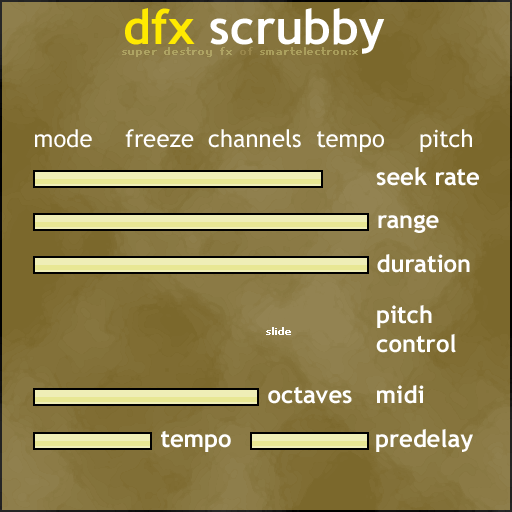
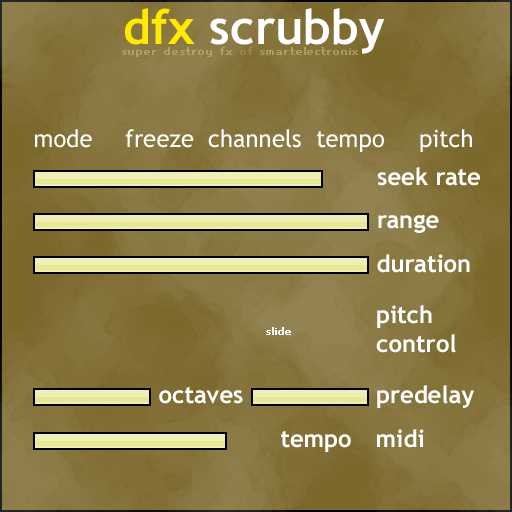
* add "sync to host tempo" button to Scrubby * re-title the "sync to host tempo" button in Buffer Override for consistency * gray out Tempo sliders when using host tempo (Buffer Override, Scrubby, EQ Sync)

Changed region(s): [[0.2812, 0.75, 0.9375, 0.8125], [0.2812, 0.8438, 0.9375, 0.9062], [0.7188, 0.3125, 0.9375, 0.375]]

diff --git a/scrubby/gui/scrubbyeditor.cpp b/scrubby/gui/scrubbyeditor.cpp
@@ -34,7 +34,7 @@ constexpr auto kDisplayTextSize = dfx::kFontSize_SnootPixel10;
 constexpr DGColor kBrownTextColor(187, 173, 131);
 constexpr float kUnusedControlAlpha = 0.234f;
 
-constexpr long kOctavesSliderWidth = 226 - 2;
+constexpr long kOctavesSliderWidth = 118 - 2;
 static long const kOctaveMaxSliderWidth = static_cast<long>((static_cast<float>(kOctave_MaxValue) / static_cast<float>((std::abs(kOctave_MinValue) + kOctave_MaxValue))) * static_cast<float>(kOctavesSliderWidth));
 static long const kOctaveMinSliderWidth = kOctavesSliderWidth - kOctaveMaxSliderWidth;
 constexpr long kOctaveMinSliderX = 33 + 1;
@@ -71,13 +71,13 @@ enum
 
 	kTempoSliderX = 33 + 1,
 	kTempoSliderY = 427,
-	kTempoSliderWidth = 119 - 2,
+	kTempoSliderWidth = 194 - 2,
 
-	kPredelaySliderX = 250 + 1,
-	kPredelaySliderY = 427,
-	kPredelaySliderWidth = 119 - 2,
+	kPredelaySliderX = 251 + 1,
+	kPredelaySliderY = 383,
+	kPredelaySliderWidth = 118 - 2,
 
-	kDisplayWidth =90,
+	kDisplayWidth = 90,
 	kDisplayWidth_big = 117,  // for seek rate
 	kDisplayHeight = 10,
 	kDisplayInset = 2,
@@ -95,6 +95,9 @@ enum
 
 	kLittleTempoSyncButtonX = 327,
 	kLittleTempoSyncButtonY = 303 + kMainSlidersOffsetY,
+
+	kTempoAutoButtonX = 231,
+	kTempoAutoButtonY = 432,
 
 	kKeyboardX = 33,
 	kKeyboardY = 164 + kNotesStuffOffsetY,
@@ -114,7 +117,7 @@ enum
 	kNoneNotesButtonY = kMajorChordButtonY + 61,
 
 	kMidiLearnButtonX = 433,
-	kMidiLearnButtonY = 248 + kNotesStuffOffsetY,
+	kMidiLearnButtonY = 292 + kNotesStuffOffsetY,
 	kMidiResetButtonX = kMidiLearnButtonX,
 	kMidiResetButtonY = kMidiLearnButtonY + 19,
 
@@ -158,6 +161,7 @@ enum
 	kHelp_Notes,
 	kHelp_Octaves,
 	kHelp_Tempo,
+	kHelp_TempoAuto,
 	kHelp_PreDelay,
 	kHelp_MidiLearn,
 	kHelp_MidiReset,
@@ -221,6 +225,10 @@ of octaves, or move these to their outer points if you want no limits.)DELIM",
 	R"DELIM(tempo:  sets the tempo that Scrubby uses when tempo sync is on
 If your host app doesn't send tempo info to plugins, you'll need to adjust this 
 parameter in order to specify a tempo for Scrubby to use.)DELIM", 
+	// tempo auto
+	R"DELIM(sync to host tempo:  follow the host's current tempo
+If your host app sends tempo info to plugins, you can enable this parameter 
+to lock the tempo that Scrubby uses to that of the host.)DELIM", 
 	// predelay
 	R"DELIM(predelay:  compensate for Scrubby's (possible) output delay
 Scrubby zips around in a delay buffer and therefore can create some latency.  
@@ -419,6 +427,7 @@ long ScrubbyEditor::OpenEditor()
 	auto const splitChannelsButtonImage = VSTGUI::makeOwned<DGImage>("stereo-button.png");
 	auto const pitchConstraintButtonImage = VSTGUI::makeOwned<DGImage>("pitch-constraint-button.png");
 	auto const tempoSyncButtonImage_little = VSTGUI::makeOwned<DGImage>("tempo-sync-button-little.png");
+	auto const hostTempoButtonImage = VSTGUI::makeOwned<DGImage>("host-tempo-button.png");
 
 	// pitch constraint control buttons
 //	auto const keyboardOffImage = VSTGUI::makeOwned<DGImage>("keyboard-off.png");
@@ -609,6 +618,10 @@ long ScrubbyEditor::OpenEditor()
 	pos.set(kLittleTempoSyncButtonX, kLittleTempoSyncButtonY, tempoSyncButtonImage_little->getWidth(), tempoSyncButtonImage_little->getHeight() / 2);
 	emplaceControl<DGButton>(this, kTempoSync, pos, tempoSyncButtonImage_little, DGButton::Mode::Increment, false);
 
+	// enable sync to host tempo
+	pos.set(kTempoAutoButtonX, kTempoAutoButtonY, hostTempoButtonImage->getWidth(), hostTempoButtonImage->getHeight() / 2);
+	emplaceControl<DGButton>(this, kTempoAuto, pos, hostTempoButtonImage, DGButton::Mode::Increment, false);
+
 
 	// ...............PITCH CONSTRAINT....................
 
@@ -706,8 +719,9 @@ long ScrubbyEditor::OpenEditor()
 
 
 
-	// this will initialize the pitch constraint controls' initial translucency settings 
+	// this will initialize the translucency state of dependent controls 
 	HandlePitchConstraintChange();
+	HandleTempoAutoChange();
 	// and this will do the same for the channels mode control
 	numAudioChannelsChanged(getNumAudioChannels());
 
@@ -818,34 +832,56 @@ void ScrubbyEditor::HandlePitchConstraintChange()
 }
 
 //-----------------------------------------------------------------------------
+void ScrubbyEditor::HandleTempoAutoChange()
+{
+	float const alpha = getparameter_b(kTempoAuto) ? kUnusedControlAlpha : 1.0f;
+	for (auto& control : mControlsList)
+	{
+		if (control->getParameterID() == kTempo)
+		{
+			control->setDrawAlpha(alpha);
+		}
+	}
+}
+
+//-----------------------------------------------------------------------------
 void ScrubbyEditor::parameterChanged(long inParameterID)
 {
-	if (inParameterID == kTempoSync)
+	switch (inParameterID)
 	{
-		auto const useSyncParam = getparameter_b(inParameterID);
-		auto const updateControlParameterID = [useSyncParam](IDGControl* inControl)
+		case kTempoSync:
 		{
-			assert(inControl);
-			auto const oldParamID = inControl->getParameterID();
-			auto newParamID = dfx::kParameterID_Invalid;
-			if ((oldParamID == kSeekRateRandMin_Hz) || (oldParamID == kSeekRateRandMin_Sync))
+			auto const useSyncParam = getparameter_b(inParameterID);
+			auto const updateControlParameterID = [useSyncParam](IDGControl* inControl)
 			{
-				newParamID = useSyncParam ? kSeekRateRandMin_Sync : kSeekRateRandMin_Hz;
-			}
-			else
-			{
-				newParamID = useSyncParam ? kSeekRate_Sync : kSeekRate_Hz;
-			}
-			inControl->setParameterID(newParamID);
-		};
-		updateControlParameterID(mSeekRateSlider);
-		updateControlParameterID(mSeekRateDisplay);
-//		updateControlParameterID(mSeekRateRandMinSlider);
-		updateControlParameterID(mSeekRateRandMinDisplay);
-	}
-	else if ((inParameterID == kSpeedMode) || (inParameterID == kPitchConstraint))
-	{
-		HandlePitchConstraintChange();
+				assert(inControl);
+				auto const oldParamID = inControl->getParameterID();
+				auto newParamID = dfx::kParameterID_Invalid;
+				if ((oldParamID == kSeekRateRandMin_Hz) || (oldParamID == kSeekRateRandMin_Sync))
+				{
+					newParamID = useSyncParam ? kSeekRateRandMin_Sync : kSeekRateRandMin_Hz;
+				}
+				else
+				{
+					newParamID = useSyncParam ? kSeekRate_Sync : kSeekRate_Hz;
+				}
+				inControl->setParameterID(newParamID);
+			};
+			updateControlParameterID(mSeekRateSlider);
+			updateControlParameterID(mSeekRateDisplay);
+//			updateControlParameterID(mSeekRateRandMinSlider);
+			updateControlParameterID(mSeekRateRandMinDisplay);
+			break;
+		}
+		case kSpeedMode:
+		case kPitchConstraint:
+			HandlePitchConstraintChange();
+			break;
+		case kTempoAuto:
+			HandleTempoAutoChange();
+			break;
+		default:
+			break;
 	}
 }
 
@@ -918,6 +954,8 @@ void ScrubbyEditor::mouseovercontrolchanged(IDGControl* currentControlUnderMouse
 					return kHelp_Octaves;
 				case kTempo:
 					return kHelp_Tempo;
+				case kTempoAuto:
+					return kHelp_TempoAuto;
 				case kPredelay:
 					return kHelp_PreDelay;
 				default:

diff --git a/bufferoverride/gui/bufferoverrideeditor.cpp b/bufferoverride/gui/bufferoverrideeditor.cpp
@@ -33,6 +33,8 @@ constexpr float kHelpDisplayFontSize = 9.6f;
 
 constexpr DGColor kHelpDisplayTextColor(201, 201, 201);
 
+constexpr float kUnusedControlAlpha = 0.39f;
+
 
 //-----------------------------------------------------------------------------
 enum
@@ -446,6 +448,9 @@ long BufferOverrideEditor::OpenEditor()
 	mHelpDisplay = emplaceControl<DGStaticTextDisplay>(pos, nullptr, dfx::TextAlignment::Center, kHelpDisplayFontSize, kHelpDisplayTextColor, kHelpDisplayFont);
 
 
+	HandleTempoAutoChange();
+
+
 	return dfx::kStatus_NoError;
 }
 
@@ -474,6 +479,9 @@ void BufferOverrideEditor::parameterChanged(long inParameterID)
 			newParameterID = useSyncParam ? kBufferLFORate_Sync : kBufferLFORate_Hz;
 			slider = mBufferLFORateSlider;
 			textDisplay = mBufferLFORateDisplay;
+			break;
+		case kTempoAuto:
+			HandleTempoAutoChange();
 			break;
 		default:
 			return;
@@ -567,10 +575,10 @@ void BufferOverrideEditor::mouseovercontrolchanged(IDGControl* currentControlUnd
 			helpstring = "nudge: MIDI notes adjust the buffer divisor.   trigger: notes also reset the divisor to 1 when they are released";
 			break;
 		case kTempo:
-			helpstring = "you can adjust the tempo that Buffer Override uses, or set this to \"auto\" to get the tempo from your sequencer";
+			helpstring = "you can adjust the tempo that Buffer Override uses, or use the \"host tempo\" button to get tempo from your host";
 			break;
 		case kTempoAuto:
-			helpstring = "enable this to get the tempo from your sequencer";
+			helpstring = "enable this to get the tempo from your host application";
 			break;
 
 		default:
@@ -589,4 +597,17 @@ void BufferOverrideEditor::mouseovercontrolchanged(IDGControl* currentControlUnd
 	}
 
 	mHelpDisplay->setText(helpstring ? helpstring : "");
+}
+
+//-----------------------------------------------------------------------------
+void BufferOverrideEditor::HandleTempoAutoChange()
+{
+	float const alpha = getparameter_b(kTempoAuto) ? kUnusedControlAlpha : 1.0f;
+	for (auto& control : mControlsList)
+	{
+		if (control->getParameterID() == kTempo)
+		{
+			control->setDrawAlpha(alpha);
+		}
+	}
 }

diff --git a/eqsync/gui/eqsynceditor.cpp b/eqsync/gui/eqsynceditor.cpp
@@ -66,6 +66,7 @@ enum
 
 static char const* const kValueTextFont = "Lucida Grande";
 constexpr float kValueTextSize = 13.0f;
+constexpr float kUnusedControlAlpha = 0.45f;
 
 
 
@@ -236,5 +237,30 @@ long EQSyncEditor::OpenEditor()
 	}, this, true);
 
 
+	HandleTempoAutoChange();
+
+
 	return dfx::kStatus_NoError;
+}
+
+//-----------------------------------------------------------------------------
+void EQSyncEditor::parameterChanged(long inParameterID)
+{
+	if (inParameterID == kTempoAuto)
+	{
+		HandleTempoAutoChange();
+	}
+}
+
+//-----------------------------------------------------------------------------
+void EQSyncEditor::HandleTempoAutoChange()
+{
+	float const alpha = getparameter_b(kTempoAuto) ? kUnusedControlAlpha : 1.0f;
+	for (auto& control : mControlsList)
+	{
+		if (control->getParameterID() == kTempo)
+		{
+			control->setDrawAlpha(alpha);
+		}
+	}
 }

diff --git a/scrubby/gui/scrubbyeditor.h b/scrubby/gui/scrubbyeditor.h
@@ -56,9 +56,11 @@ public:
 	void numAudioChannelsChanged(unsigned long inNumChannels) override;
 
 	void HandleNotesButton(long inNotesButtonType);
-	void HandlePitchConstraintChange();
 
 private:
+	void HandlePitchConstraintChange();
+	void HandleTempoAutoChange();
+
 	DGSlider* mSeekRateSlider = nullptr;
 //	DGSlider* mSeekRateRandMinSlider = nullptr;
 	DGTextDisplay* mSeekRateDisplay = nullptr;

diff --git a/bufferoverride/gui/bufferoverrideeditor.h b/bufferoverride/gui/bufferoverrideeditor.h
@@ -36,6 +36,8 @@ public:
 	void mouseovercontrolchanged(IDGControl* currentControlUnderMouse) override;
 
 private:
+	void HandleTempoAutoChange();
+
 	DGSlider* mBufferSizeSlider = nullptr;
 	DGSlider* mDivisorLFORateSlider = nullptr;
 	DGSlider* mBufferLFORateSlider = nullptr;

diff --git a/eqsync/gui/eqsynceditor.h b/eqsync/gui/eqsynceditor.h
@@ -30,4 +30,8 @@ class EQSyncEditor : public DfxGuiEditor
 public:
 	EQSyncEditor(DGEditorListenerInstance inInstance);
 	long OpenEditor() override;
+	void parameterChanged(long inParameterID) override;
+
+private:
+	void HandleTempoAutoChange();
 };
